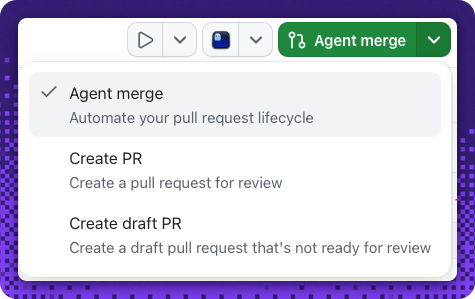
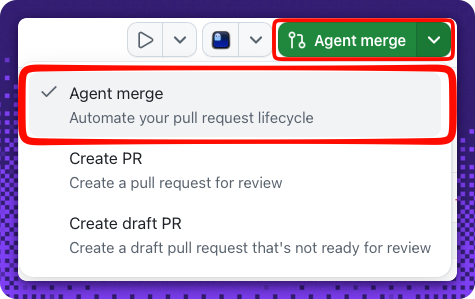
Step 2: refresh agent-merge screenshot and add a diff preview
- Replace step2-agent-merge-dropdown.png with the clean Agent-merge dropdown capture
- Add step2-agent-merge-change.png and a <details> below step 3 showing the
  copilot-instructions.md diff (TODO replaced by the localStorage + client:load rules)
- Sync the image manifest

Copilot-Session: a9ddd07b-77bf-43e0-a5d9-c6426a067e0e

Changed region(s): [[0.0295, 0.0602, 0.9726, 0.5117]]

diff --git a/.github/steps/2-step.md b/.github/steps/2-step.md
@@ -44,7 +44,14 @@ Even a light, single-file change is a chance to try **agent merge** — the app'
 
    <img width="60%" alt="Session action dropdown with Agent merge selected to automate the pull request lifecycle" src="../images/step2-agent-merge-dropdown.png" />
 
-<!-- image: diff showing the committed copilot-instructions.md -->
+   <details>
+   <summary>See the change agent merge ships 👀</summary><br/>
+
+   The pull request replaces the seeded `TODO` block with the two project rules — persistence via `localStorage` and the `client:load` boundary — before merging to `main`.
+
+   <img width="520" alt="Session Changes tab showing copilot-instructions.md with the TODO block removed and the localStorage and client:load rules added, alongside the Agent merge dropdown" src="../images/step2-agent-merge-change.png" />
+
+   </details>
 
 > [!TIP]
 > Be specific to this project (Astro + TypeScript + `localStorage` behind `client:load`). The client-boundary rule is exactly what keeps the Step 3 build from crashing at SSR.

diff --git a/.github/images/README.md b/.github/images/README.md
@@ -18,6 +18,7 @@ files use `<!-- image: ... -->` HTML-comment placeholders so issue comments stil
 | `step1-exit-plan-mode.png` | 1 · Act 1 | Plan summary with 'Exit plan mode and I will prompt myself' selected |
 | `step2-add-panel-menu.png` | 2 | Session with the walkthrough issue #1 open in the side panel and the "Build the bookmarks app" work item (no work started) |
 | `step2-agent-merge-dropdown.png` | 2 | Session action dropdown with **Agent merge** selected |
+| `step2-agent-merge-change.png` | 2 · Act 1 | Changes tab showing the TODO replaced by the localStorage + client:load rules, with the Agent merge dropdown |
 
 ## Still to capture (one per remaining `<!-- image: -->` placeholder)
 
